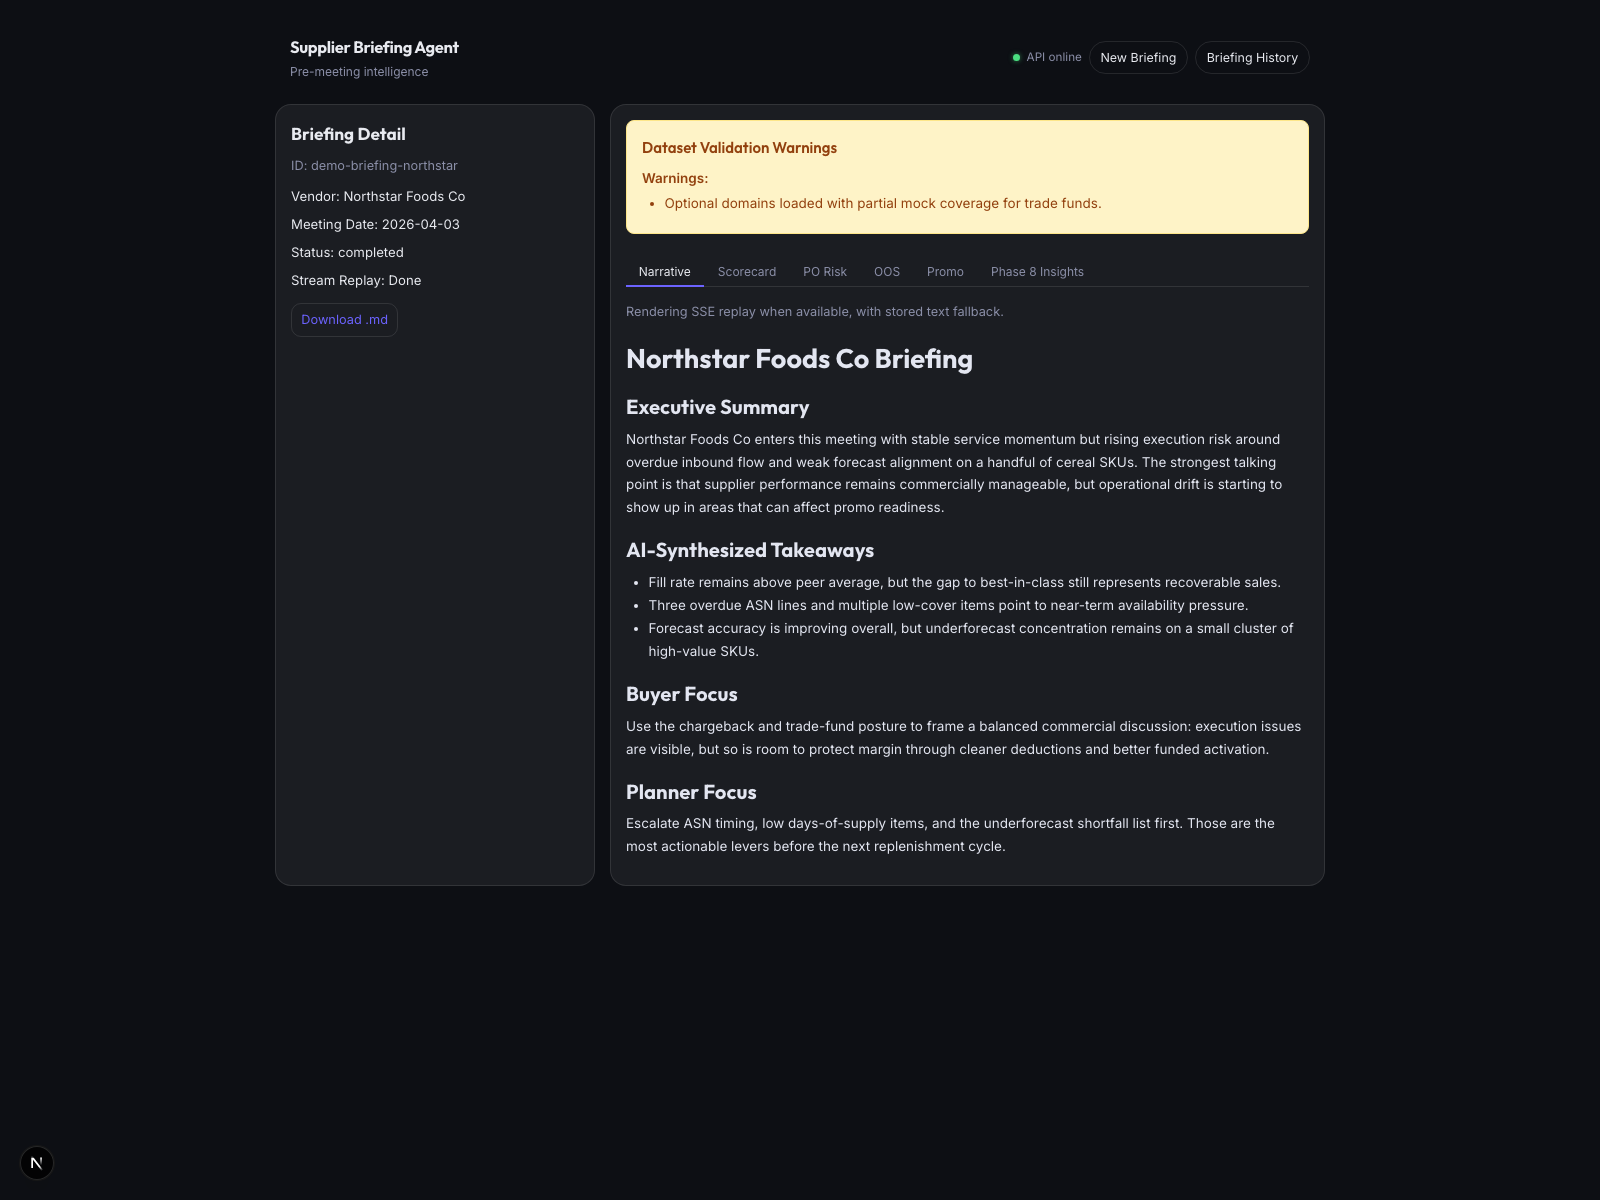
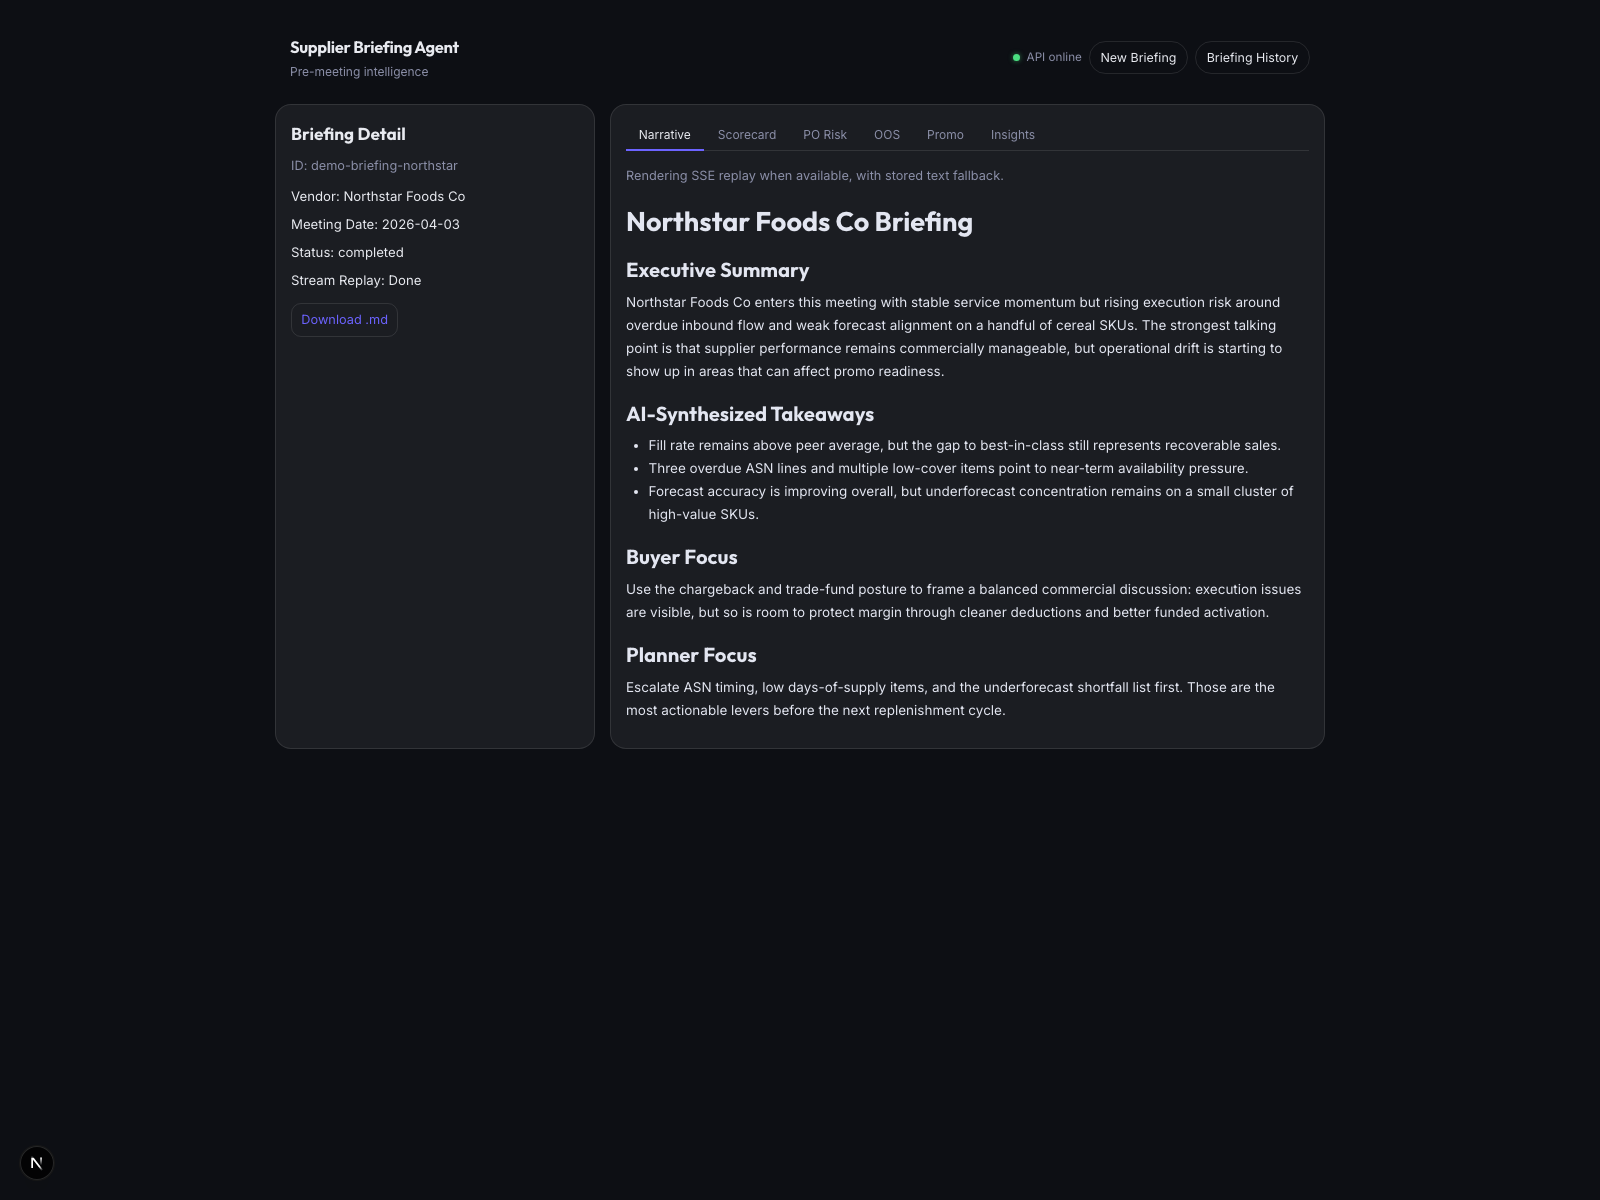
Refresh README briefing screenshots

Changed region(s): [[0.375, 0.0925, 0.8438, 0.7092]]

diff --git a/frontend/app/briefings/[id]/page.tsx b/frontend/app/briefings/[id]/page.tsx
@@ -28,7 +28,7 @@ const TABS: { id: Tab; label: string }[] = [
   { id: "po_risk", label: "PO Risk" },
   { id: "oos", label: "OOS" },
   { id: "promo", label: "Promo" },
-  { id: "phase8", label: "Phase 8 Insights" },
+  { id: "phase8", label: "Insights" },
 ];
 
 function asRecord(value: unknown): Record<string, unknown> {

diff --git a/README.md b/README.md
@@ -35,7 +35,19 @@ Beyond narrative generation, the UI exposes the highest-impact optional-domain a
 
 ![Phase 8 insights tab with inventory, forecast, ASN, chargeback, and trade fund signals](docs/images/ui-phase8-insights.png)
 
-### 4. Briefing history and data quality states
+### 4. Scorecard benchmarking tab
+
+The scorecard tab keeps the deterministic metric layer visible, including current performance, short- and long-term trend movement, and benchmark context against peers and best-in-class targets.
+
+![Scorecard tab with trend and benchmark metrics](docs/images/ui-scorecard-tab.png)
+
+### 5. PO risk execution tab
+
+The PO risk tab surfaces the operational exception layer: red/yellow/green counts up top, then the exact late or at-risk PO lines a planner needs to work through before the meeting.
+
+![PO risk tab with risk summary cards and late PO lines](docs/images/ui-po-risk-tab.png)
+
+### 6. Briefing history and data quality states
 
 The history screen gives teams a working log of completed runs while making data validation state obvious at a glance, which is especially important when operating across mixed-quality supplier extracts.
 
